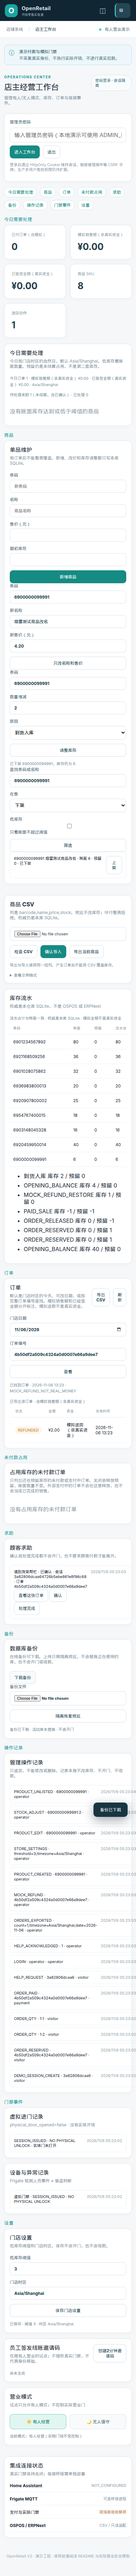
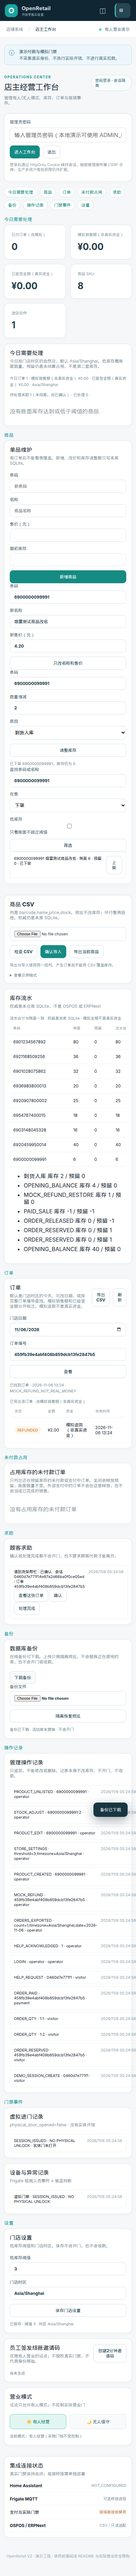
Show when an unpaid reservation expires in the store timezone.
The existing 15-minute hold is displayed only. Non-mock payment reservations are still not released by the timer.

Changed region(s): [[0.4923, 0.5307, 0.5538, 0.562]]

diff --git a/web/app.js b/web/app.js
@@ -35,7 +35,7 @@ function describePayment(order){
  if(order.status==='CANCELLED')return {text:'已取消 · 未付款 · 订单 '+(order.id||'')+' · 预留已释放',cls:'timeout'};
  if(order.status==='REFUNDED')return {text:'演示库存已由店员退回 · 订单 '+(order.id||''),cls:''};
  if(order.status==='PAYMENT_REVIEW')return {text:'待人工核对 · 请勿重复付款 · 订单 '+(order.id||''),cls:'timeout'};
- if(order.status==='PENDING'||order.status==='PAYMENT_PENDING')return {text:'未付款 · 库存已预留 · 订单 '+(order.id||'')+' · '+money(order.total_cents),cls:'unpaid'};
+ if(order.status==='PENDING'||order.status==='PAYMENT_PENDING'){const until=order.expires_local?(' · 预留至 '+order.expires_local+(order.expires_timezone?' '+order.expires_timezone:'')):'';return {text:'未付款 · 库存已预留 · 订单 '+(order.id||'')+' · '+money(order.total_cents)+until,cls:'unpaid'};}
  return {text:order.status,cls:''};
 }
 function itemSummary(order){if(order.items)return order.items;return (order.lines||[]).map(line=>line.name+' x'+line.quantity).join('、')}
@@ -47,7 +47,7 @@ async function showEntryStatus(){const status=await api('/api/entry/status',{gue
 async function createOrder(){if(!state.token)throw Error('先创建访客会话');const req={request_id:(crypto.randomUUID?.()||('demo-'+Date.now()+'-'+Math.random())),lines:[...state.cart].map(([product_id,quantity])=>({product_id,quantity}))};const r=await api('/api/orders',{method:'POST',body:req,guest:true});rememberOrder(r);$('payment-qr').hidden=true;showPay(r);renderCart();await refreshMine();return r}
 async function confirmMock(){const r=await api('/api/payments/mock-confirm',{method:'POST',body:{order_id:state.orderId},guest:true});showPay(r);if(r.status==='PAID'){state.lastOrderId=r.id||state.orderId;state.cart.clear();state.orderId='';state.orderTotal=null;state.orderLines=null;$('cancel-order-btn').disabled=true;$('pay-btn').disabled=true;await loadProducts()}await refreshMine();return r}
 function fundLabel(order){if(order.status==='PAID'&&order.provider==='MOCK_NOT_REAL_MONEY')return '模拟销售额';if(Number(order.verified)===1)return '已验签真实资金';if(order.status==='REFUNDED'&&order.provider==='MOCK_NOT_REAL_MONEY')return '模拟退回';return '未收款'}
-async function adminRefresh(){if(!state.csrf)return;const [overview,orders,events,ledger,help,catalog,audit,holding]=await Promise.all([api('/api/admin/overview',{admin:true}),api(ordersQuery(),{admin:true}),api('/api/admin/events',{admin:true}),api('/api/admin/inventory-ledger',{admin:true}),api('/api/admin/help-requests',{admin:true}),api(catalogQuery(),{admin:true}),api('/api/admin/audit',{admin:true}),api('/api/admin/orders/holding',{admin:true})]);$('admin-body').hidden=false;$('m-orders').textContent=overview.paid_orders;$('m-sales').textContent=money(overview.simulated_revenue_cents);$('m-real').textContent=money(overview.verified_revenue_cents);$('today-summary').textContent='今日订单 '+overview.today_order_count+' · 模拟销售额（非真实资金） '+money(overview.today_simulated_revenue_cents)+' · 已验签金额（真实资金） '+money(overview.today_verified_revenue_cents)+' · '+overview.store_timezone;$('low-stock-threshold').value=overview.low_stock_threshold;$('store-timezone').value=overview.store_timezone;if(orders.local_date&&(!$('order-date').value||($('order-lookup').value||'').trim()))$('order-date').value=orders.local_date;const looked=($('order-lookup').value||'').trim();$('order-lookup-status').textContent=looked?(orders.orders&&orders.orders.length?('已找到订单 · '+orders.orders[0].local_time+' · '+(orders.orders[0].money_label==='MOCK_NOT_REAL_MONEY'?'模拟销售额（非真实资金）':(orders.orders[0].money_label||''))):'未找到订单'):('门店日期 '+(orders.local_date||'')+' · '+(orders.orders||[]).length+' 笔');$('admin-catalog').innerHTML=catalog.map(p=>`<div class="event"><span>${esc(p.barcode)} ${esc(p.name)} · 账面 ${p.stock} · 预留 ${p.reserved_stock} · ${p.active?'在售':'已下架'}</span><button class="btn secondary" type="button" data-listing-id="${p.id}" data-listing-barcode="${esc(p.barcode)}" data-listing-active="${p.active?0:1}">${p.active?'下架':'上架'}</button></div>`).join('')||'<p class="muted">没有商品</p>';$('audit-list').innerHTML=(audit.events||[]).map(e=>`<div class="event"><span>${esc(e.action)} · ${esc(e.detail)} · ${esc(e.actor)}</span><time>${time(e.created_at)}</time></div>`).join('')||'<p class="muted">没有操作记录</p>';$('help-attention').textContent='待处理求助 '+overview.help_needs_attention+'（未结案，含已确认） · 已处理 '+overview.help_resolved;$('low-stock-list').innerHTML=(overview.low_stock||[]).map(p=>`<div class="event"><span>${esc(p.barcode)} ${esc(p.name)} · 账面 ${p.stock} · 预留 ${p.reserved_stock} · 可售 ${p.available_stock}</span><time>阈值 ${overview.low_stock_threshold}</time></div>`).join('')||'<p class="muted">没有账面库存达到或低于阈值的商品</p>';$('m-products').textContent=overview.products;$('m-entries').textContent=overview.door_events;$('mode-info').textContent='当前模式：'+(overview.mode==='UNATTENDED'?'无人值守':'有人经营')+'（实物门锁不受控制）';$('ha-state').textContent=overview.home_assistant.status;$('mode-staffed').classList.toggle('selected',overview.mode==='STAFFED');$('mode-unattended').classList.toggle('selected',overview.mode==='UNATTENDED');const todayOrders=orders.orders||[];$('order-table').innerHTML=todayOrders.map(o=>{const refund=o.status==='PAID'&&o.provider==='MOCK_NOT_REAL_MONEY'&&Number(o.verified)!==1?`<button class="btn secondary" type="button" data-mock-refund="${esc(o.id)}">模拟退款</button>`:'';const label=o.money_label==='MOCK_NOT_REAL_MONEY'?'模拟销售额（非真实资金）':o.money_label==='VERIFIED_REAL_MONEY'?'已验签金额（真实资金）':o.money_label==='MOCK_REFUND_NOT_REAL_MONEY'?'模拟退回（非真实资金）':fundLabel(o);return `<tr><td title="${esc(o.id)}">${esc(o.id.slice(0,12))}…<div class="muted">${esc(o.items||'')}</div></td><td><span class="status ${o.status==='PAID'?'paid':''}">${esc(o.status)}</span></td><td>${money(o.total_cents)}</td><td>${esc(label)}</td><td>${esc(o.local_time||'')}</td><td>${refund}</td></tr>`}).join('')||'<tr><td colspan="6">这一天没有订单</td></tr>';$('holding-list').innerHTML=(holding.orders||[]).map(o=>{const action=o.closable?`<button class="btn secondary" type="button" data-close-order="${esc(o.id)}">释放预留</button>`:`<span>${esc(o.note||'不能在这里释放')}</span>`;return `<div class="event"><span>${esc(o.id.slice(0,12))}… · ${esc(o.local_time||'')} · ${money(o.total_cents)} · ${esc(o.status)} · ${esc(o.items||'')} · 未付款 · 非真实资金</span>${action}</div>`}).join('')||'<p class="muted">没有占用库存的未付款订单</p>';$('ledger-balance').textContent=(ledger.balanced?'流水合计与账面一致':'流水与账面不一致，需要人工核对')+' · 权威是本库 SQLite · 模拟金额不是真实资金';$('ledger-table').innerHTML=ledger.products.map(p=>`<tr><td>${esc(p.barcode)}</td><td>${p.stock}</td><td>${p.reserved_stock}</td><td>${p.ledger_stock}</td><td>${p.balanced?'一致':'不一致'}</td></tr>`).join('')||'<tr><td colspan="5">没有商品</td></tr>';$('ledger-moves').innerHTML=ledger.movements.slice(0,8).map(m=>`<li>${esc(m.reason)} 库存 ${m.stock_delta} / 预留 ${m.reserved_delta}</li>`).join('');const helpLabel={OPEN:'待处理',ACKNOWLEDGED:'已确认',RESOLVED:'已处理'};$('help-list').innerHTML=(help.requests||[]).map(h=>{const buttons=h.status==='RESOLVED'?'':`<button class="btn secondary" type="button" data-help-id="${esc(h.id)}" data-help-status="ACKNOWLEDGED">确认</button> <button class="btn secondary" type="button" data-help-id="${esc(h.id)}" data-help-status="RESOLVED">处理完成</button>`;const find=h.order_id?`<button class="btn secondary" type="button" data-find-order="${esc(h.order_id)}">查看这张订单</button>`:'';return `<div class="event"><span>${esc(h.message)} · ${esc(helpLabel[h.status]||h.status)} · 会话 ${esc(h.session_id||'无')} · 订单 ${esc(h.order_id||'无')} ${find} ${buttons}</span><time>${time(h.created_at)}</time></div>`}).join('')||'<p class="muted">没有求助</p>';$('door-lock-note').textContent=events.physical_door_opened===false?'physical_door_opened=false · 没有实体开锁':'门状态异常';$('door-event-list').innerHTML=(events.door||[]).map(e=>`<div class="event"><span>${esc(e.result)} · ${esc(e.detail)} · 实体门未打开</span><time>${time(e.created_at)}</time></div>`).join('')||'<p class="muted">没有虚拟进门记录</p>';const incident=events.frigate.map(e=>({name:'Frigate 人员事件 · '+e.camera+' · '+e.event_type,t:e.created_at})),doors=events.door.map(e=>({name:'虚拟门禁 · '+e.result+' · '+e.detail,t:e.created_at}));$('event-list').innerHTML=[...incident,...doors].sort((a,b)=>b.t-a.t).slice(0,15).map(e=>`<div class="event"><span>${esc(e.name)}</span><time>${time(e.t)}</time></div>`).join('')||'<p class="muted">暂无设备事件</p>'}
+async function adminRefresh(){if(!state.csrf)return;const [overview,orders,events,ledger,help,catalog,audit,holding]=await Promise.all([api('/api/admin/overview',{admin:true}),api(ordersQuery(),{admin:true}),api('/api/admin/events',{admin:true}),api('/api/admin/inventory-ledger',{admin:true}),api('/api/admin/help-requests',{admin:true}),api(catalogQuery(),{admin:true}),api('/api/admin/audit',{admin:true}),api('/api/admin/orders/holding',{admin:true})]);$('admin-body').hidden=false;$('m-orders').textContent=overview.paid_orders;$('m-sales').textContent=money(overview.simulated_revenue_cents);$('m-real').textContent=money(overview.verified_revenue_cents);$('today-summary').textContent='今日订单 '+overview.today_order_count+' · 模拟销售额（非真实资金） '+money(overview.today_simulated_revenue_cents)+' · 已验签金额（真实资金） '+money(overview.today_verified_revenue_cents)+' · '+overview.store_timezone;$('low-stock-threshold').value=overview.low_stock_threshold;$('store-timezone').value=overview.store_timezone;if(orders.local_date&&(!$('order-date').value||($('order-lookup').value||'').trim()))$('order-date').value=orders.local_date;const looked=($('order-lookup').value||'').trim();$('order-lookup-status').textContent=looked?(orders.orders&&orders.orders.length?('已找到订单 · '+orders.orders[0].local_time+' · '+(orders.orders[0].money_label==='MOCK_NOT_REAL_MONEY'?'模拟销售额（非真实资金）':(orders.orders[0].money_label||''))):'未找到订单'):('门店日期 '+(orders.local_date||'')+' · '+(orders.orders||[]).length+' 笔');$('admin-catalog').innerHTML=catalog.map(p=>`<div class="event"><span>${esc(p.barcode)} ${esc(p.name)} · 账面 ${p.stock} · 预留 ${p.reserved_stock} · ${p.active?'在售':'已下架'}</span><button class="btn secondary" type="button" data-listing-id="${p.id}" data-listing-barcode="${esc(p.barcode)}" data-listing-active="${p.active?0:1}">${p.active?'下架':'上架'}</button></div>`).join('')||'<p class="muted">没有商品</p>';$('audit-list').innerHTML=(audit.events||[]).map(e=>`<div class="event"><span>${esc(e.action)} · ${esc(e.detail)} · ${esc(e.actor)}</span><time>${time(e.created_at)}</time></div>`).join('')||'<p class="muted">没有操作记录</p>';$('help-attention').textContent='待处理求助 '+overview.help_needs_attention+'（未结案，含已确认） · 已处理 '+overview.help_resolved;$('low-stock-list').innerHTML=(overview.low_stock||[]).map(p=>`<div class="event"><span>${esc(p.barcode)} ${esc(p.name)} · 账面 ${p.stock} · 预留 ${p.reserved_stock} · 可售 ${p.available_stock}</span><time>阈值 ${overview.low_stock_threshold}</time></div>`).join('')||'<p class="muted">没有账面库存达到或低于阈值的商品</p>';$('m-products').textContent=overview.products;$('m-entries').textContent=overview.door_events;$('mode-info').textContent='当前模式：'+(overview.mode==='UNATTENDED'?'无人值守':'有人经营')+'（实物门锁不受控制）';$('ha-state').textContent=overview.home_assistant.status;$('mode-staffed').classList.toggle('selected',overview.mode==='STAFFED');$('mode-unattended').classList.toggle('selected',overview.mode==='UNATTENDED');const todayOrders=orders.orders||[];$('order-table').innerHTML=todayOrders.map(o=>{const refund=o.status==='PAID'&&o.provider==='MOCK_NOT_REAL_MONEY'&&Number(o.verified)!==1?`<button class="btn secondary" type="button" data-mock-refund="${esc(o.id)}">模拟退款</button>`:'';const label=o.money_label==='MOCK_NOT_REAL_MONEY'?'模拟销售额（非真实资金）':o.money_label==='VERIFIED_REAL_MONEY'?'已验签金额（真实资金）':o.money_label==='MOCK_REFUND_NOT_REAL_MONEY'?'模拟退回（非真实资金）':fundLabel(o);return `<tr><td title="${esc(o.id)}">${esc(o.id.slice(0,12))}…<div class="muted">${esc(o.items||'')}</div></td><td><span class="status ${o.status==='PAID'?'paid':''}">${esc(o.status)}</span></td><td>${money(o.total_cents)}</td><td>${esc(label)}</td><td>${esc(o.local_time||'')}</td><td>${refund}</td></tr>`}).join('')||'<tr><td colspan="6">这一天没有订单</td></tr>';$('holding-list').innerHTML=(holding.orders||[]).map(o=>{const action=o.closable?`<button class="btn secondary" type="button" data-close-order="${esc(o.id)}">释放预留</button>`:`<span>${esc(o.note||'不能在这里释放')}</span>`;return `<div class="event"><span>${esc(o.id.slice(0,12))}… · ${esc(o.local_time||'')} · ${money(o.total_cents)} · ${esc(o.status)} · ${esc(o.items||'')} · 未付款 · 非真实资金${o.expires_local?' · 预留至 '+esc(o.expires_local):''}</span>${action}</div>`}).join('')||'<p class="muted">没有占用库存的未付款订单</p>';$('ledger-balance').textContent=(ledger.balanced?'流水合计与账面一致':'流水与账面不一致，需要人工核对')+' · 权威是本库 SQLite · 模拟金额不是真实资金';$('ledger-table').innerHTML=ledger.products.map(p=>`<tr><td>${esc(p.barcode)}</td><td>${p.stock}</td><td>${p.reserved_stock}</td><td>${p.ledger_stock}</td><td>${p.balanced?'一致':'不一致'}</td></tr>`).join('')||'<tr><td colspan="5">没有商品</td></tr>';$('ledger-moves').innerHTML=ledger.movements.slice(0,8).map(m=>`<li>${esc(m.reason)} 库存 ${m.stock_delta} / 预留 ${m.reserved_delta}</li>`).join('');const helpLabel={OPEN:'待处理',ACKNOWLEDGED:'已确认',RESOLVED:'已处理'};$('help-list').innerHTML=(help.requests||[]).map(h=>{const buttons=h.status==='RESOLVED'?'':`<button class="btn secondary" type="button" data-help-id="${esc(h.id)}" data-help-status="ACKNOWLEDGED">确认</button> <button class="btn secondary" type="button" data-help-id="${esc(h.id)}" data-help-status="RESOLVED">处理完成</button>`;const find=h.order_id?`<button class="btn secondary" type="button" data-find-order="${esc(h.order_id)}">查看这张订单</button>`:'';return `<div class="event"><span>${esc(h.message)} · ${esc(helpLabel[h.status]||h.status)} · 会话 ${esc(h.session_id||'无')} · 订单 ${esc(h.order_id||'无')} ${find} ${buttons}</span><time>${time(h.created_at)}</time></div>`}).join('')||'<p class="muted">没有求助</p>';$('door-lock-note').textContent=events.physical_door_opened===false?'physical_door_opened=false · 没有实体开锁':'门状态异常';$('door-event-list').innerHTML=(events.door||[]).map(e=>`<div class="event"><span>${esc(e.result)} · ${esc(e.detail)} · 实体门未打开</span><time>${time(e.created_at)}</time></div>`).join('')||'<p class="muted">没有虚拟进门记录</p>';const incident=events.frigate.map(e=>({name:'Frigate 人员事件 · '+e.camera+' · '+e.event_type,t:e.created_at})),doors=events.door.map(e=>({name:'虚拟门禁 · '+e.result+' · '+e.detail,t:e.created_at}));$('event-list').innerHTML=[...incident,...doors].sort((a,b)=>b.t-a.t).slice(0,15).map(e=>`<div class="event"><span>${esc(e.name)}</span><time>${time(e.t)}</time></div>`).join('')||'<p class="muted">暂无设备事件</p>'}
 async function run(fn){try{await fn()}catch(e){toast(e.message);console.error(e)}}
 document.addEventListener('click',e=>{const findOrder=e.target.closest('[data-find-order]');if(findOrder){run(async()=>{ $('order-lookup').value=findOrder.dataset.findOrder;const section=document.getElementById('admin-orders');if(section)section.scrollIntoView({block:'start'});await adminRefresh();if(!$('order-lookup-status').textContent.includes('已找到订单'))throw Error('没有找到这张订单')});return}const closeHold=e.target.closest('[data-close-order]');if(closeHold){run(async()=>{const r=await api('/api/admin/orders/'+closeHold.dataset.closeOrder+'/mock-close',{admin:true,method:'POST'});if(r.real_money||r.remote_call||r.physical_door_opened||r.stock_changed)throw Error('释放预留不应扣账面、收款或开门');toast(r.outcome==='IDEMPOTENT'?'订单已经关闭':'已释放预留，账面库存未扣');await adminRefresh()});return}const refund=e.target.closest('[data-mock-refund]');if(refund){run(async()=>{const r=await api('/api/admin/orders/'+refund.dataset.mockRefund+'/mock-refund',{admin:true,method:'POST'});toast(r.real_money?'异常：模拟退款不应产生真实资金':'模拟退款已回补库存，不是微信退款');await adminRefresh();await loadProducts()});return}const listing=e.target.closest('[data-listing-id]');if(listing){run(async()=>{const r=await api('/api/admin/products/'+listing.dataset.listingId+'/listing',{admin:true,method:'POST',body:{active:listing.dataset.listingActive==='1'}});if(r.stock_changed||r.physical_door_opened||r.real_door_enabled)throw Error('上下架不应改库存或开门');$('product-status').textContent=(r.active?'已上架':'已下架')+' '+r.barcode+'，库存仍为 '+r.stock;await adminRefresh();await loadProducts();toast(r.active?'已上架':'已下架')});return}const helpAction=e.target.closest('[data-help-status]');if(helpAction){run(async()=>{const r=await api('/api/admin/help-requests/'+helpAction.dataset.helpId+'/status',{admin:true,method:'POST',body:{status:helpAction.dataset.helpStatus}});if(r.physical_door_opened||r.payment_required_to_leave||r.door_authorized)throw Error('处理求助不应开门或要求付款');toast(r.status==='RESOLVED'?'求助已处理，门未打开':'已确认求助，门未打开');await adminRefresh()});return}const nav=e.target.closest('[data-panel]');if(nav){document.querySelectorAll('.nav').forEach(n=>n.classList.toggle('active',n===nav));['shop','admin'].forEach(p=>$('panel-'+p).hidden=p!==nav.dataset.panel);$('current-title').textContent=nav.dataset.panel==='shop'?'顾客自助购物':'店主工作台';if(nav.dataset.panel==='admin')run(adminRefresh)}const addButton=e.target.closest('[data-add]');if(addButton){const id=Number(addButton.dataset.add);if(state.orderId){const current=state.cart.get(id)||0;if(!current){toast('已有待付款订单，请先完成付款或取消订单');return}run(()=>changeOrderQty(id,current+1));return}add(id);return}const minus=e.target.closest('[data-minus]');if(minus){const id=Number(minus.dataset.minus);const current=state.cart.get(id)||0;if(state.orderId){run(()=>changeOrderQty(id,Math.max(0,current-1)));return}if(current<=1)state.cart.delete(id);else state.cart.set(id,current-1);$('pay-btn').disabled=true;renderCart()}});
 $('entry-btn').onclick=()=>run(async()=>{const s=await api('/api/entry',{method:'POST'});state.token=s.guest_token;sessionStorage.setItem('retail_guest',state.token);$('entry-result').textContent='访客会话创建成功（未进行身份核验）；有效期至 '+time(s.expires_at);$('door-btn').disabled=false;await showEntryStatus();renderCart();toast('演示访客会话已创建')});

diff --git a/tests/test_reservation_expiry.py b/tests/test_reservation_expiry.py
@@ -1,0 +1,56 @@
+"""Show the existing 15-minute hold. The timer still ignores non-mock payment reservations."""
+from datetime import datetime
+from zoneinfo import ZoneInfo
+from conftest import visitor
+
+SHANGHAI=ZoneInfo('Asia/Shanghai')
+
+
+def levels(client, product_id):
+    with client.app.state.db.connect() as conn:
+        row=conn.execute('SELECT stock,reserved_stock FROM products WHERE id=?',(product_id,)).fetchone()
+        doors=conn.execute('SELECT COUNT(*) n FROM door_events').fetchone()['n']
+    return row['stock'],row['reserved_stock'],doors
+
+
+def test_unpaid_hold_shows_expiry_and_non_mock_pending_stays_reserved(client, admin_header):
+    assert client.get('/api/admin/orders/holding').status_code==401
+    guest=visitor(client)
+    product=client.get('/api/products').json()[0]
+    created=client.post('/api/orders',headers=guest,json={'request_id':'expiry-show-0001',
+        'lines':[{'product_id':product['id'],'quantity':1}]})
+    assert created.status_code==201
+    order=created.json()
+    assert order['status']=='PENDING' and order['payment_kind']=='UNPAID' and order['real_money'] is False
+    assert order['expires_at']==order['created_at']+900
+    assert order['expires_timezone']=='Asia/Shanghai'
+    expected=datetime.fromtimestamp(order['expires_at'],SHANGHAI).strftime('%Y-%m-%d %H:%M')
+    assert order['expires_local']==expected
+    assert 800<=order['expires_in_seconds']<=900
+    stock,reserved,doors=levels(client,product['id'])
+    listed=client.get('/api/admin/orders/holding',headers=admin_header)
+    assert listed.status_code==200
+    body=listed.json()
+    assert body['physical_door_opened'] is False and body['real_door_enabled'] is False
+    row=next(item for item in body['orders'] if item['id']==order['id'])
+    assert row['expires_local']==expected and row['expires_timezone']=='Asia/Shanghai'
+    assert row['money_label']=='UNPAID' and row['real_money'] is False and row['closable'] is True
+    assert 800<=row['expires_in_seconds']<=900
+    assert levels(client,product['id'])==(stock,reserved,doors)
+    with client.app.state.db.tx() as conn:
+        conn.execute('UPDATE orders SET expires_at=0 WHERE id=?',(order['id'],))
+    timed=client.get('/api/orders',headers=guest).json()[0]
+    assert timed['status']=='EXPIRED' and timed['payment_kind']=='TIMEOUT_UNPAID'
+    assert timed['real_money'] is False
+    assert levels(client,product['id'])[:2]==(stock,0)
+    external=client.post('/api/orders',headers=guest,json={'request_id':'expiry-wechat-0002',
+        'lines':[{'product_id':product['id'],'quantity':1}]}).json()
+    with client.app.state.db.tx() as conn:
+        conn.execute('''UPDATE orders SET status='PAYMENT_PENDING', expires_at=0,
+                        payment_reference='weixin://wxpay/bizpayurl?pr=TEST' WHERE id=?''',(external['id'],))
+    held=levels(client,product['id'])
+    client.get('/api/products')
+    client.get('/api/orders',headers=guest)
+    assert client.get('/api/orders/'+external['id'],headers=guest).json()['status']=='PAYMENT_PENDING'
+    assert levels(client,product['id'])[:2]==held[:2]
+    assert client.get('/api/admin/overview',headers=admin_header).json()['verified_revenue_cents']==0

diff --git a/openretail/main.py b/openretail/main.py
@@ -273,7 +273,13 @@ def create_app(settings:Settings|None=None)->FastAPI:
             'SELECT product_id,barcode,name,unit_price_cents,quantity FROM order_lines WHERE order_id=?',
             (order_id,))]
         items='、'.join(f"{line['name']} x{line['quantity']}" for line in lines)
-        return {**asdict(row),'lines':lines,'items':items,**payment_facts(c,order_id,row['status'])}
+        zone_name,zone=store_zone(c)
+        expires_at=row['expires_at']
+        expiry={}
+        if expires_at is not None:
+            expiry={'expires_local':format_local(expires_at,zone),'expires_timezone':zone_name,
+                    'expires_in_seconds':int(expires_at)-now()}
+        return {**asdict(row),'lines':lines,'items':items,**payment_facts(c,order_id,row['status']),**expiry}
 
     def record_virtual_door(c,session_id,result,detail):
         c.execute('''INSERT INTO door_events(session_id,result,provider,detail,created_at)
@@ -1154,7 +1160,7 @@ def create_app(settings:Settings|None=None)->FastAPI:
         """Unpaid orders that still reserve stock. Read-only; closing is a separate action."""
         with db.connect() as c:
             zone_name,zone=store_zone(c)
-            rows=c.execute('''SELECT o.id,o.status,o.total_cents,o.created_at,o.paid_at,o.payment_reference,
+            rows=c.execute('''SELECT o.id,o.status,o.total_cents,o.created_at,o.paid_at,o.expires_at,o.payment_reference,
                 (SELECT provider FROM payments WHERE order_id=o.id ORDER BY created_at DESC LIMIT 1) provider,
                 (SELECT verified FROM payments WHERE order_id=o.id ORDER BY created_at DESC LIMIT 1) verified,
                 (SELECT group_concat(name || ' x' || quantity, '、') FROM order_lines WHERE order_id=o.id) items
@@ -1168,6 +1174,10 @@ def create_app(settings:Settings|None=None)->FastAPI:
                 item['real_money']=False
                 item['unpaid']=True
                 item['closable']=closable
+                item['expires_at']=row['expires_at']
+                item['expires_local']=format_local(row['expires_at'],zone) if row['expires_at'] is not None else ''
+                item['expires_timezone']=zone_name
+                item['expires_in_seconds']=int(row['expires_at'])-now() if row['expires_at'] is not None else None
                 item['note']='未付款 · 非真实资金' if closable else '外部支付占用，不能在这里释放'
                 listed.append(item)
         return {'timezone':zone_name,'orders':listed,'physical_door_opened':False,

diff --git a/scripts/ui_bridge_smoke.py b/scripts/ui_bridge_smoke.py
@@ -47,7 +47,7 @@ with TestClient(create_app(cfg)) as backend,sync_playwright() as pw:
  assert p.locator('#cart-total').inner_text()=='¥0.00'
  p.locator('.add-btn').first.click()
  p.locator('#checkout-btn').click()
- p.wait_for_function("document.querySelector('#payment-result').textContent.includes('订单')")
+ p.wait_for_function("document.querySelector('#payment-result').textContent.includes('订单') && document.querySelector('#payment-result').textContent.includes('预留至') && document.querySelector('#payment-result').textContent.includes('Asia/Shanghai') && document.querySelector('#payment-result').textContent.includes('¥2.00')")
  print('order:',p.locator('#payment-result').inner_text())
  p.wait_for_function("document.querySelector('#cart-total').textContent==='¥2.00'")
  p.locator('#cart [data-add]').click()

diff --git a/docs/PROJECT_STATUS.md b/docs/PROJECT_STATUS.md
@@ -4,6 +4,18 @@
 
 完全无人值守经营仍是 **NOT_APPROVED**。示例配置里的真实支付和实体开锁都是关闭的。
 
+## 本增量（未付款预留何时结束）
+
+已在代码和测试里做到，并在本机复跑：
+
+- 未付款订单本来就在创建后 900 秒到期。顾客页和占用库存列表现在显示门店时区的到期时间（默认 Asia/Shanghai）以及剩余秒数。只是读出这个时间，不因此改库存。
+- 到期后仍按原来的规则：`PENDING` 和 `mock:` 的 `PAYMENT_PENDING` 会释放预留，状态变为已超时未付款。微信或其他非 `mock:` 的 `PAYMENT_PENDING` 到点也不会被这个计时释放。
+- 店员关闭占用仍走原来的 `mock-close`。未登录看占用列表返回 401。
+
+`/tmp/openretail-venv/bin/python -m pytest -q`（工作目录 `/workspace`，Python 3.12.3）：**66 passed，1 warning，6.80s，退出码 0**。警告仍是 Starlette 的 `httpx` TestClient 弃用提示。66 = 上一轮 65 + 本增量 1。
+
+`scripts/ui_bridge_smoke.py` 在去掉密钥环境变量后退出码 0。未付款的 ¥2.00 订单在加减数量和付款之前显示「预留至 2026-11-06 13:39 Asia/Shanghai」。随后模拟支付仍是「模拟支付成功 · 非真实资金 · 已扣库存 · ¥2.00」。390 宽 `scrollWidth` 390，1440 宽 `scrollWidth` 1440，`pageerror` 为空。这仍是 Chrome 到 TestClient 的桥，不是真机，也不是真实收款。
+
 ## 本增量（扫码和加数量的失败提示）
 
 已在代码和测试里做到，并在本机复跑：
